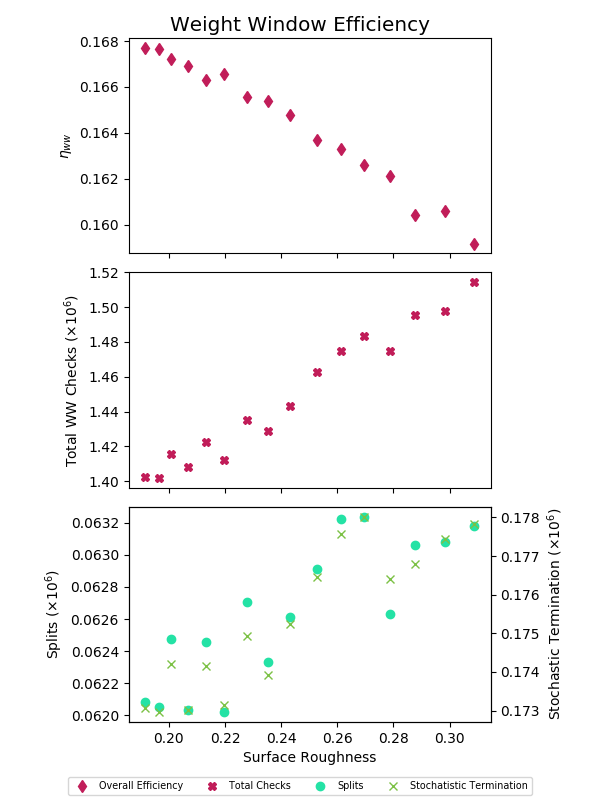
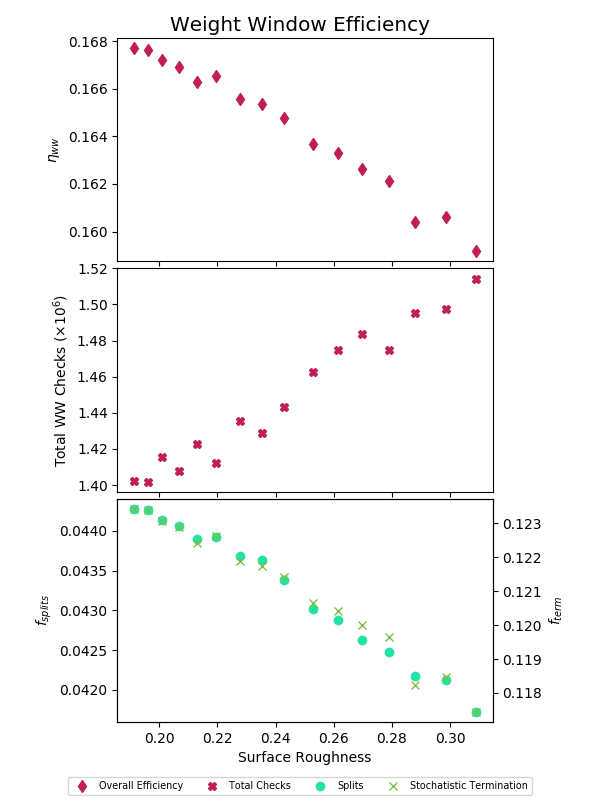
plot splits and terminations as fractions

diff --git a/performance-analysis/analysis/plot_tally_data.py b/performance-analysis/analysis/plot_tally_data.py
@@ -346,8 +346,27 @@ def plot_ww_efficiency(df_output, refinement, df_measure=None):
     # overall efficiency
     fig, ax = plt.subplots(nrows=3, ncols=1, sharex=True,
                            sharey=False, figsize=(6, 8))
+    ax2 = ax[2].twinx()
 
     # plot overall efficiency
+    if df_measure is None:
+        # also plot cwwm results
+        xmax = max(df_wwig[output_key])
+        xmin = min(df_wwig[output_key])
+        df_cwwm = df_output.loc[df_output['mode'] == 'cwwm']
+        cwwm_ww = np.full(2, float(df_cwwm['WW check efficiency']))
+        cwwm_total = np.full(2, float(df_cwwm['total ww checks']))
+        cwwm_splits = np.full(2, float(df_cwwm['total splits']))
+        cwwm_term = np.full(
+            2, float(df_cwwm['total stochastic termination']))
+        ax[0].plot([xmin, xmax], cwwm_ww, marker='',
+                   ls=':', color=colors['cwwm'], label='CWWM')
+        ax[1].plot([xmin, xmax], cwwm_total / 10**6, marker='',
+                   ls=':', color=colors['cwwm'], label='')
+        ax[2].plot([xmin, xmax], cwwm_splits / cwwm_total, marker='',
+                   ls=':', color=colors['cwwm'], label='')
+        ax2.plot([xmin, xmax], cwwm_term / cwwm_total, marker='',
+                 ls=':', color=colors['cwwm'], label='')
     ax[0].plot(df_wwig[measurement], df_wwig['WW check efficiency'],
                marker=markers['wwig'], ls='',
                label='Overall Efficiency', color=colors['wwig'])
@@ -358,37 +377,18 @@ def plot_ww_efficiency(df_output, refinement, df_measure=None):
                label='Total Checks', color=colors['wwig'])
     ax[1].set_ylabel(r'Total WW Checks ($\times 10^6$)')
 
-    ax[2].plot(df_wwig[measurement], df_wwig['total splits'] / 10**6,
+    ax[2].plot(df_wwig[measurement], df_wwig['total splits'] / df_wwig['total ww checks'],
                marker=markers['cwwm'], ls='',
                label='Splits', color=colors['reference'])
     ax[2].set_xlabel(xlabel)
-    ax[2].set_ylabel(r'Splits ($\times 10^6$)')
-
-    ax2 = ax[2].twinx()
+    ax[2].set_ylabel(r'$f_{splits}$')
     ax2.plot(df_wwig[measurement],
-             df_wwig['total stochastic termination'] / 10**6,
+             df_wwig['total stochastic termination'] / df_wwig['total ww checks'],
              marker=markers['analog'], ls='',
              label='Stochatistic Termination', color=colors['analog'])
-    ax2.set_ylabel(r'Stochastic Termination ($\times 10^6$)')
+    ax2.set_ylabel(r'$f_{term}$')
 
-    if df_measure is None:
-        # also plot cwwm results
-        xmax = max(df_wwig[output_key])
-        xmin = min(df_wwig[output_key])
-        df_cwwm = df_output.loc[df_output['mode'] == 'cwwm']
-        cwwm_ww = np.full(2, float(df_cwwm['WW check efficiency']))
-        cwwm_total = np.full(2, float(df_cwwm['total ww checks'] / 10**6))
-        cwwm_splits = np.full(2, float(df_cwwm['total splits'] / 10**6))
-        cwwm_term = np.full(
-            2, float(df_cwwm['total stochastic termination'] / 10**6))
-        ax[0].plot([xmin, xmax], cwwm_ww, marker='',
-                   ls=':', color=colors['cwwm'], label='CWWM')
-        ax[1].plot([xmin, xmax], cwwm_total, marker='',
-                   ls=':', color=colors['cwwm'], label='')
-        ax[2].plot([xmin, xmax], cwwm_splits, marker='',
-                   ls=':', color=colors['cwwm'], label='')
-        ax2.plot([xmin, xmax], cwwm_term, marker='',
-                 ls='', color=colors['cwwm'], label='')
+
 
     title = 'Weight Window Efficiency'
     fig.suptitle(title, fontsize='x-large')
